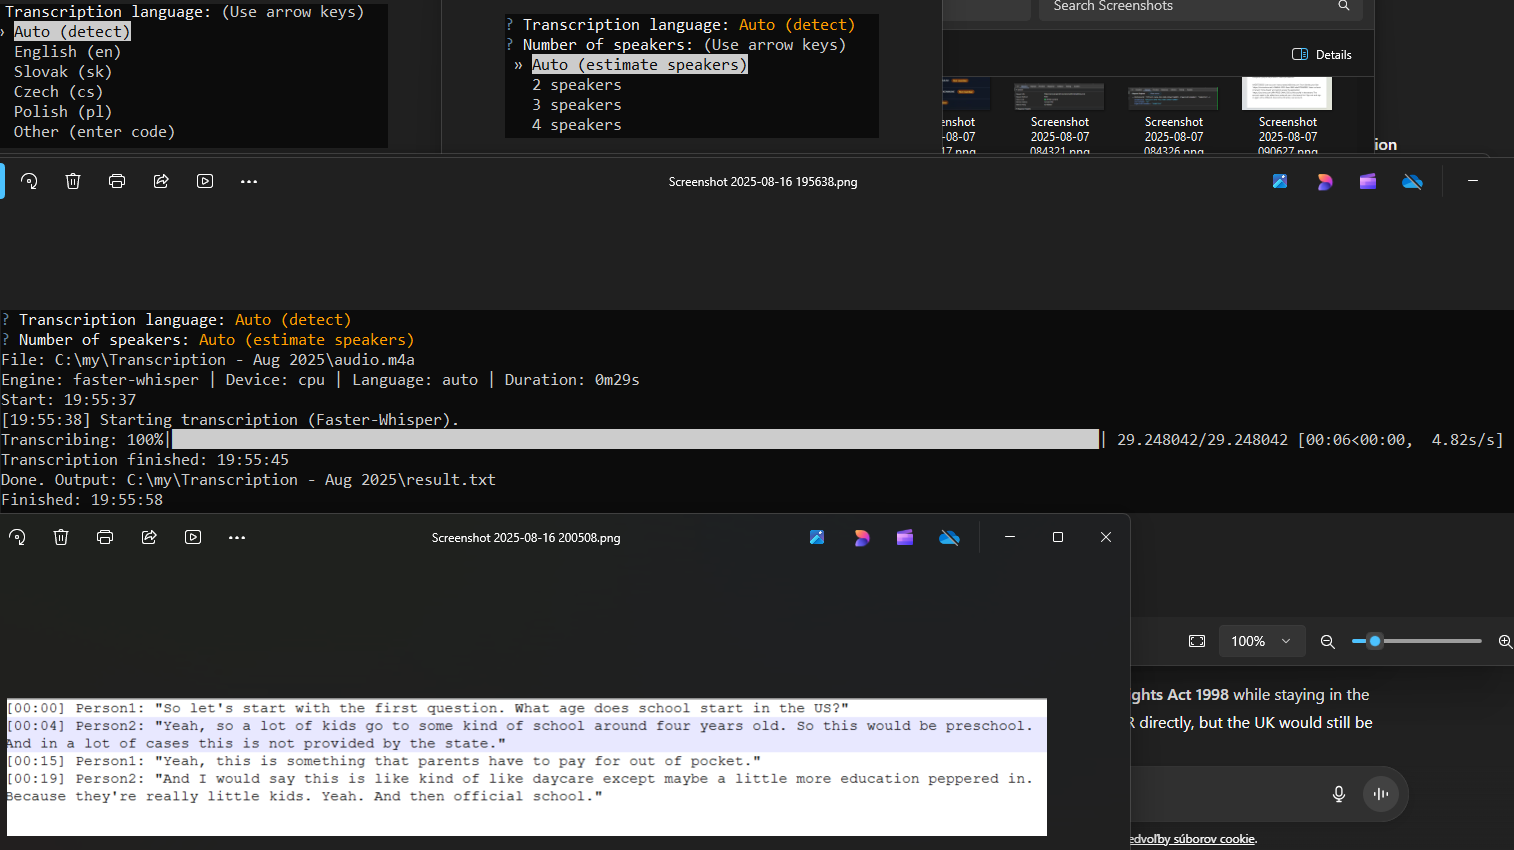
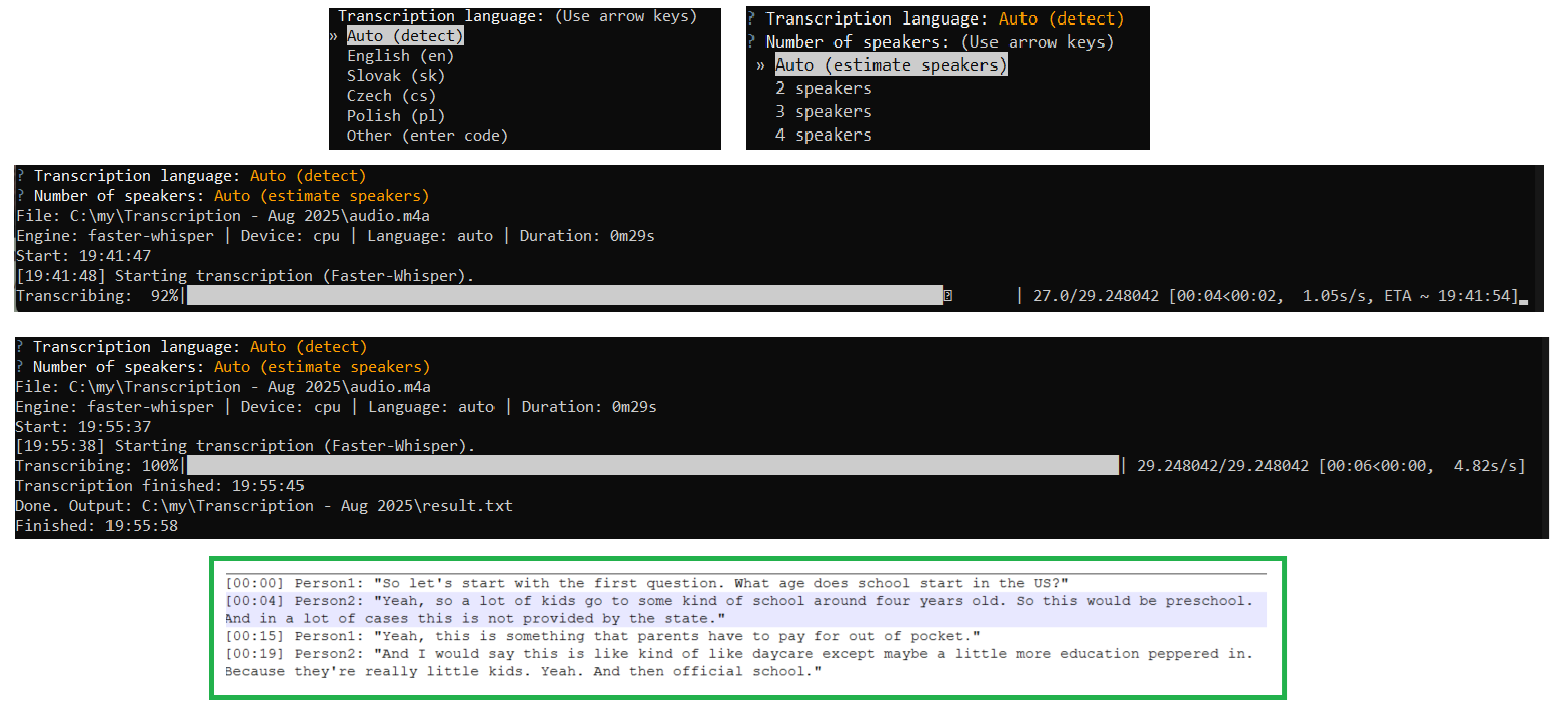
Transcription2 - Part 2

diff --git a/src/app/pages/ai-tools/ai-tools.component.ts b/src/app/pages/ai-tools/ai-tools.component.ts
@@ -24,46 +24,55 @@ export class AiToolsComponent implements OnInit {
   galleryImages: string[] = [];
   galleryIndex: number = 0;
 
-  // Sample AI tools data - replace with your actual AI integrations
+  // AI Tools Data
   private aiTools: AITool[] = [
     {
       id: 1,
-      title: 'ML Speech Transcription & Translation',
-      description: 'A Python-based offline speech recognition solution powered by OpenAI\'s Whisper Machine Learning model. This tool transcribes spoken audio from MP3 files into written text (Slovak or any language) with optional translation to English. The system uses Whisper\'s neural network models (tiny, small, or medium) that run entirely offline after download, ensuring complete data privacy. Features include automatic language detection, live progress tracking with percentage and ETA, and comprehensive timing logs. The final transcription is saved as a .txt file, with the entire process running locally on your CPU.',
+      title: 'AI/ML-Powered Speech-to-Text Transcription',
+      description: 'AI/Machine Learning-powered Python CLI script built on OpenAI\'s Whisper neural networks and Faster-Whisper that transcribes audio/video with multi-language support, tracks multiple speakers, and maps each sentence to a Person ID (Person1, Person2, …) with a timestamp, producing diarized transcripts.\n\nFeatures include:\n• Hybrid diarization (ECAPA embeddings + K-Means + Viterbi)\n• Optional pyannote fallback\n• Progress bar with ETA\n• Language auto-detection or manual selection\n• Auto/fixed choices for engine, transcription language, and speaker count',
       screenshots: [
-        'assets/images/Transcription/transcription1.png',
-        'assets/images/Transcription/transcription2.png'
+        'assets/images/Transcription2/1.png',
+        'assets/images/Transcription2/2.png',
+        'assets/images/Transcription2/3a.png',
+        'assets/images/Transcription2/3b.png',
+        'assets/images/Transcription2/4.png',
+        'assets/images/Transcription2/5.png',
+        'assets/images/Transcription2/all at once.png'
       ],
       technologies: [
-        '🐍 Python 3 - Main programming language with rich ecosystem for files, subprocesses, and AI models',
-        '🎙 OpenAI Whisper - Pre-trained deep ML neural network model for speech-to-text, language detection, and translation',
-        '🎧 FFmpeg - Command-line tool for audio analysis, conversion, and decoding in Whisper\'s required format',
-        '📊 tqdm - Python library for elegant terminal progress bars showing percentage, elapsed time, and ETA',
-        '🧠 Python Standard Libraries - datetime, time, subprocess, warnings for timing and process management'
+        '🐍 Python 3.13 - Core language with rich ecosystem for AI/ML development',
+        '🎙 Faster-Whisper - Efficient speech recognition engine for fast, accurate transcriptions',
+        '🔊 SpeechBrain ECAPA-TDNN - State-of-the-art speaker embedding model for diarization',
+        '🤗 Hugging Face Hub - Model management and offline caching',
+        '📊 scikit-learn - KMeans clustering and model selection metrics',
+        '🎛 FFmpeg - Audio processing and format conversion',
+        '📈 librosa - Advanced audio feature extraction (MFCC, spectral, pitch)'
       ],
       aiFeatures: [
-        'Speech-to-Text Transcription with Neural Network Processing',
-        'Automatic Language Detection for Multi-Language Support',
-        'Optional Translation to English (task="translate")',
-        'Multiple Model Sizes (tiny, small, medium) for Performance Tuning',
-        'Live Progress Tracking with Percentage, Elapsed Time, and ETA',
-        'Complete Data Privacy (100% Offline Processing)',
-        'MP3 to Text (.txt) Conversion with Timing Logs'
+        'Automatic Speaker Diarization - Identifies and labels different speakers',
+        'Smart Speaker Count - Automatically determines optimal number of speakers',
+        'Frame-wise Analysis - Stable speaker labels even for short phrases',
+        'Multi-language Support - Automatic language detection or manual selection',
+        'Temporal Smoothing - Viterbi algorithm for consistent speaker labeling',
+        'Offline-First - Full functionality without internet after initial setup',
+        'Progress Tracking - Real-time ETA and processing status'
       ]
     },
     {
       id: 2,
-      title: 'AI Navigator Chat Button Kit',
-      description: 'An interactive chatbot system that provides intelligent navigation assistance through natural language. Users can ask questions, get recommendations, and perform actions through a conversational interface powered by advanced AI models.',
+      title: 'AI Navigator ChatBot',
+      description: 'A smart AI assistant integrated into a Healthcare web application built with the Angular framework. The AI Navigator ChatBot is connected to the OpenAI platform via API and provides instant responses based on custom internal documentation. It helps users navigate complex medical features directly through chat, improving accessibility, efficiency, and user experience within the system.',
       screenshots: [
         'assets/gifs/AI-Navigator%20ChatBot.gif'
       ],
-      technologies: ['TensorFlow', 'Python', 'OpenAI API', 'Flask', 'WebSockets'],
+      technologies: ['Angular', 'TypeScript', 'SCSS', 'OpenAI API', 'RxJS', 'HTML/CSS', 'REST API'],
       aiFeatures: [
-        'Natural Language Processing',
-        'Contextual Understanding',
-        'Real-time Response Generation',
-        'User Intent Recognition'
+        'Natural language understanding using OpenAI GPT',
+        'Context-aware responses based on custom healthcare documentation',
+        'Smart navigation guidance through chat (e.g., directing users to specific sections of the app)',
+        'Instant, human-like replies to improve support efficiency',
+        'Introductory and follow-up messaging to enhance user engagement',
+        'Typing indicator animation during AI processing'
       ]
     }
   ];

diff --git a/src/app/pages/ai-tools/ai-tools.component.scss b/src/app/pages/ai-tools/ai-tools.component.scss
@@ -123,15 +123,19 @@
       .gallery-thumbnail {
         width: 350px;
         height: 250px;
-        object-fit: cover;
+        object-fit: contain;
+        background-color: #1e1e2d;
         border-radius: 6px;
         box-shadow: 0 2px 5px rgba(0, 0, 0, 0.1);
         transition: all 0.3s ease;
         cursor: pointer;
+        padding: 10px;
+        box-sizing: border-box;
 
         &:hover {
-          transform: scale(1.05);
+          transform: scale(1.02);
           box-shadow: 0 5px 15px rgba(0, 0, 0, 0.2);
+          background-color: #2a2a3a;
         }
 
         // Special styling for GIFs to make them display in original size
@@ -145,36 +149,163 @@
       }
     }
 
-    .tool-description {
+    .project-description {
       color: #ffffff;
+      margin-bottom: 2rem;
 
       p {
-        margin-bottom: 2rem;
+        margin: 0 0 1.5rem 0;
         line-height: 1.6;
+        
+        &:last-child {
+          margin-bottom: 1rem;
+        }
       }
 
-      .tech-stack,
-      .ai-features {
-        margin-bottom: 2rem;
-
+      .tech-stack {
+        margin: 2rem 0;
+        
         h3 {
-          margin-bottom: 1rem;
           color: #4facfe;
+          margin-top: 0;
+          margin-bottom: 1rem;
+          font-size: 1.4rem;
+          position: relative;
+          padding-bottom: 0.5rem;
+          border-bottom: 1px solid rgba(255, 255, 255, 0.1);
         }
 
-        ul {
-          list-style: none;
-          padding: 0;
+        .tech-items {
           display: flex;
           flex-wrap: wrap;
-          gap: 1rem;
-
-          li {
-            background: rgba(255, 255, 255, 0.05);
+          gap: 0.8rem;
+          margin: 0;
+          padding: 0;
+          
+          span {
+            background: #ffffff0d;
             padding: 0.5rem 1rem;
             border-radius: 20px;
             border: 1px solid rgba(255, 255, 255, 0.1);
+            color: #ffffff;
+            font-size: 0.9rem;
+            white-space: nowrap;
+            display: inline-block;
+          }
+        }
+      }
 
+      /* Tech Bubbles */
+      .tech-bubbles {
+        display: flex;
+        flex-wrap: wrap;
+        gap: 0.8rem;
+        margin: 2rem 0;
+        justify-content: center;
+
+        .bubble {
+          background: rgba(79, 172, 254, 0.15);
+          color: #4facfe;
+          padding: 0.5rem 1.2rem;
+          border-radius: 20px;
+          font-size: 0.9rem;
+          border: 1px solid rgba(79, 172, 254, 0.3);
+          transition: all 0.3s ease;
+
+          &:hover {
+            background: rgba(79, 172, 254, 0.25);
+            transform: translateY(-2px);
+          }
+        }
+      }
+
+      /* Sections */
+      .section {
+        margin-bottom: 2rem;
+        background: rgba(255, 255, 255, 0.03);
+        border-radius: 12px;
+        padding: 1.5rem;
+        border: 1px solid rgba(255, 255, 255, 0.05);
+
+        h3 {
+          color: #4facfe;
+          margin-top: 0;
+          margin-bottom: 1.5rem;
+          font-size: 1.4rem;
+          position: relative;
+          padding-bottom: 0.5rem;
+          border-bottom: 1px solid rgba(255, 255, 255, 0.1);
+        }
+
+        .feature-list {
+          list-style: none;
+          padding: 0;
+          margin: 0;
+          display: flex;
+          flex-direction: column;
+          gap: 0.8rem;
+
+          li {
+            display: flex;
+            align-items: flex-start;
+            line-height: 1.6;
+            padding: 0.5rem 0;
+            border-bottom: 1px solid rgba(255, 255, 255, 0.05);
+            
+            &:last-child {
+              border-bottom: none;
+            }
+
+            .emoji {
+              margin-right: 0.8rem;
+              font-size: 1.2em;
+              line-height: 1.4;
+              min-width: 1.5em;
+              display: inline-block;
+              text-align: center;
+            }
+          }
+        }
+      }
+
+      /* Keep existing styles for tech-stack and ai-features for backward compatibility */
+      .tech-stack,
+      .ai-features {
+        margin-bottom: 2rem;
+        background: rgba(255, 255, 255, 0.03);
+        border-radius: 12px;
+        padding: 1.5rem;
+        border: 1px solid rgba(255, 255, 255, 0.05);
+        
+        h3 {
+          color: #4facfe;
+          margin-top: 0;
+          margin-bottom: 1.5rem;
+          font-size: 1.4rem;
+          position: relative;
+          padding-bottom: 0.5rem;
+          border-bottom: 1px solid rgba(255, 255, 255, 0.1);
+        }
+        
+        ul {
+          list-style: none;
+          padding: 0;
+          margin: 0;
+          display: flex;
+          flex-direction: column;
+          gap: 0.8rem;
+          
+          li {
+            display: flex;
+            align-items: flex-start;
+            line-height: 1.6;
+            padding: 0.5rem 0;
+            border-bottom: 1px solid rgba(255, 255, 255, 0.05);
+            
+            &:last-child {
+              border-bottom: none;
+            }
+            
             &::before {
               content: '•';
               margin-right: 0.5rem;

diff --git a/src/app/pages/ai-tools/ai-tools.component.html b/src/app/pages/ai-tools/ai-tools.component.html
@@ -7,7 +7,7 @@
          [class.active]="selectedTool?.id === 1">
       <div class="tool-preview">
         <i class="fas fa-brain"></i>
-        <h3>ML Speech Transcription & Translation</h3>
+        <h3>AI/ML-Powered Speech-to-Text Transcription</h3>
         <p>Click to view details</p>
       </div>
     </div>
@@ -27,6 +27,13 @@
   <div class="tool-details" *ngIf="selectedTool">
     <div class="details-content">
       <h2>{{ selectedTool.title }}</h2>
+      
+      <!-- Description before gallery -->
+      <div class="tool-description">
+        <p *ngFor="let paragraph of selectedTool.description.split('\n')" [innerHTML]="paragraph"></p>
+      </div>
+      
+      <!-- Gallery -->
       <div class="screenshot-gallery">
         <img *ngFor="let screenshot of selectedTool.screenshots; let i = index"
              [src]="screenshot"
@@ -34,29 +41,65 @@
              (click)="openGallery(selectedTool.screenshots, i)"
              class="gallery-thumbnail">
       </div>
-      <div class="tool-description">
-        <p>{{ selectedTool.description }}</p>
+
+      <!-- Tech Stack for Speech-to-Text -->
+      <div *ngIf="selectedTool.id === 1" class="project-description">
         <div class="tech-stack">
-          <h3>Technologies Used:</h3>
-          <ul>
-            <li *ngFor="let tech of selectedTool.technologies">{{ tech }}</li>
+          <h3>Technologies Used</h3>
+          <div class="tech-items">
+            <span>Python 3.13</span>
+            <span>Whisper</span>
+            <span>Faster-Whisper</span>
+            <span>PyTorch</span>
+            <span>SpeechBrain ECAPA-TDNN</span>
+            <span>scikit-learn</span>
+            <span>Librosa</span>
+            <span>FFmpeg</span>
+            <span>Hugging Face Hub</span>
+          </div>
+        </div>
+
+        <!-- Detailed Technologies Section -->
+        <div class="section">
+          <h3>Technology Details</h3>
+          <ul class="feature-list">
+            <li *ngFor="let tech of selectedTool.technologies" [innerHTML]="tech"></li>
           </ul>
         </div>
-        <div class="ai-features">
-          <h3>AI Features:</h3>
-          <ul>
-            <li *ngFor="let feature of selectedTool.aiFeatures">{{ feature }}</li>
+
+        <!-- Capabilities Section -->
+        <div class="section">
+          <h3>Capabilities</h3>
+          <ul class="feature-list">
+            <li *ngFor="let feature of selectedTool.aiFeatures">{{feature}}</li>
           </ul>
         </div>
       </div>
-    </div>
-  </div>
 
-  <!-- Image Gallery -->
-  <app-image-gallery 
-    [images]="galleryImages" 
-    [isOpen]="galleryOpen" 
-    [startIndex]="galleryIndex"
-    (closeGallery)="closeGallery()">
-  </app-image-gallery>
+      <!-- Content for AI Navigator ChatBot -->
+      <div *ngIf="selectedTool.id === 2" class="project-description">
+        <div class="tech-stack">
+          <h3>Technologies Used</h3>
+          <div class="tech-items">
+            <span *ngFor="let tech of selectedTool.technologies">{{tech}}</span>
+          </div>
+        </div>
+      
+      <div *ngIf="selectedTool.id === 2" class="section">
+        <h3>AI Features</h3>
+        <ul class="feature-list">
+          <li *ngFor="let feature of selectedTool.aiFeatures">{{feature}}</li>
+        </ul>
+      </div>
+    </div>
+
+    <!-- Image Gallery -->
+    <app-image-gallery 
+      *ngIf="galleryOpen"
+      [images]="galleryImages" 
+      [isOpen]="galleryOpen" 
+      [startIndex]="galleryIndex"
+      (closeGallery)="closeGallery()">
+    </app-image-gallery>
+  </div>
 </div>
